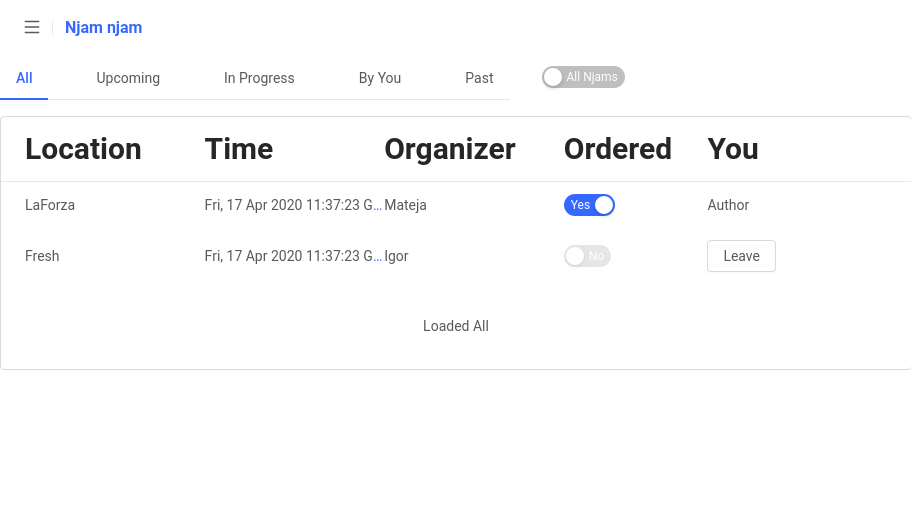
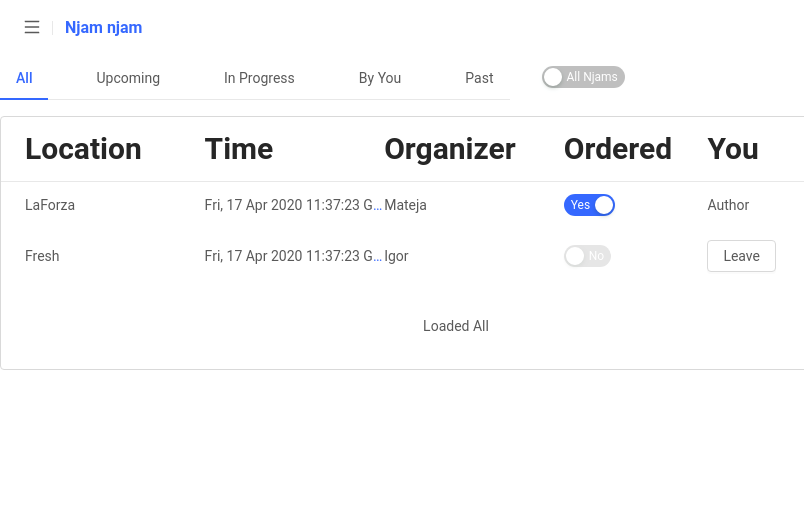
feat(App): crops njam-njam image and adds mr to project images

diff --git a/src/App.tsx b/src/App.tsx
@@ -371,7 +371,7 @@ function App() {
         <Flex>
           <Flex flexDirection="column" alignItems="center">
             <img src={videoStoryteller} alt="Video Storyteller" height={150} />
-            <Box mt={3} style={{ textAlign: 'center' }}>
+            <Box mt={3} mr={3} style={{ textAlign: 'center' }}>
               <a href="https://video-styteller-dev.web.app">
                 Video Storyteller
               </a>{' '}
@@ -380,14 +380,14 @@ function App() {
           </Flex>
           <Flex flexDirection="column" alignItems="center">
             <img src={njamNjam} alt="Video Storyteller" height={150} />
-            <Box mt={3} style={{ textAlign: 'center' }}>
+            <Box mt={3} mr={3} style={{ textAlign: 'center' }}>
               <a href="https://njam-njam.web.app">Njam Njam</a> is React and
               GraphQL powered app for group food ordering
             </Box>
           </Flex>
           <Flex flexDirection="column" alignItems="center">
             <img src={hackerNews} alt="Video Storyteller" height={150} />
-            <Box mt={3} style={{ textAlign: 'center' }}>
+            <Box mt={3} mr={3} style={{ textAlign: 'center' }}>
               <a href="https://mateja176-react-hn.web.app">Hacker News Clone</a>{' '}
               is React app which loads articles as you scroll
             </Box>
